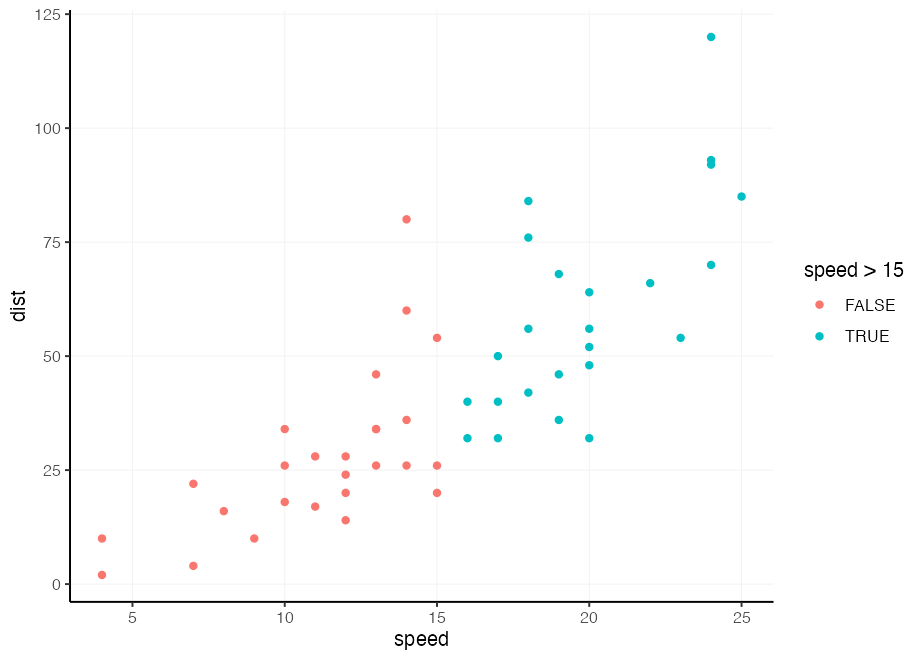
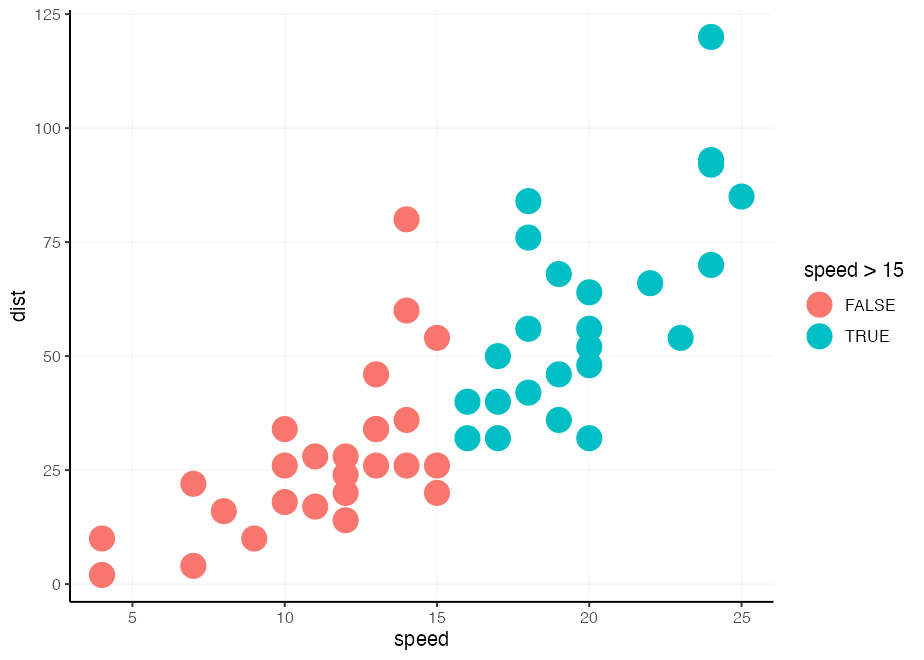
greys

diff --git a/README.md b/README.md
@@ -92,12 +92,12 @@ especially nifty if you need to recycle aesthetics every once in a
 while.
 
 ``` r
-my_mapping <- aes(x = speed, y = dist)
+my_xy_mapping <- aes(x = speed, y = dist)
 
 ggplot(data = cars) + 
   aes(color = speed > 15, 
-      !!!my_mapping) + 
-  geom_point()
+      !!!my_xy_mapping) + 
+  geom_point(size = 6)
 ```
 
 <img src="man/figures/README-splice_aes-1.png" width="80%" style="display: block; margin: auto;" />
@@ -125,14 +125,14 @@ p;p
 
 ``` r
 
-# or reusable
+# or reusably
 aes(fill = after_scale(alpha(colour, 0.3))) ->
-  fill_after_color0.3
+  aes_fill_transparent_after_color
 
 ggplot(mpg) +
   aes(x = displ, y = hwy, 
       colour = factor(cyl), 
-      !!!fill_after_color0.3) +
+      !!!aes_fill_transparent_after_color) +
   geom_point(shape = 21)
 ```
 
@@ -145,7 +145,7 @@ ggplot(mpg) +
 ggplot(mpg) +
   aes(x = displ, y = hwy) +
   geom_point(shape = 21) + 
-  fill_after_color0.3 + 
+  aes_fill_transparent_after_color + 
   aes(colour = factor(cyl))
 ```
 
@@ -170,15 +170,15 @@ of conditional formatting for this.
 
 ``` r
 contrast <- function(colour) {
-  out   <- rep("black", length(colour))
+  out   <- rep("grey20", length(colour))
   light <- farver::get_channel(colour, "l", 
                                space = "hcl")
-  out[light < 50] <- "white"
+  out[light < 50] <- "grey80"
   out
 }
 
 aes(colour = after_scale(contrast(fill))) ->
-  autocontrast
+  aes_colour_autocontrast_after_fill
 
 library(tidyverse)
 #> ── Attaching core tidyverse packages ─────────────────── tidyverse 2.0.0.9000 ──
@@ -201,7 +201,7 @@ cor(mtcars) |>
   aes(fill = value) + 
   geom_text(aes(label = round(value, 2)), size = 3) +
   coord_equal() +
-  autocontrast + 
+  aes_colour_autocontrast_after_fill + 
   scale_fill_viridis_c(direction =  1) +
   scale_fill_viridis_c(direction = -1)
 #> Scale for fill is already present.
@@ -235,7 +235,7 @@ ggplot() +
   geom_boxplot() + 
   aes(xmin = after_scale(x)) +
   # make it pretty
-  fill_after_color0.3 +
+  aes_fill_transparent_after_color +
   labs(y = "Engine Displacement [L]", x = "Type of car") +
   guides(colour = "none", fill = "none") 
 ```
@@ -599,7 +599,7 @@ barplot_fun <- function(data, ...) {
     theme(panel.grid.major.x = element_blank())
 }
 
-barplot_fun(mpg, class, colour = factor(cyl), !!!fill_after_color0.3)
+barplot_fun(mpg, class, colour = factor(cyl), !!!aes_fill_transparent_after_color)
 ```
 
 <img src="man/figures/README-barplot_fun_ellipsis-1.png" width="80%" style="display: block; margin: auto;" />
@@ -620,7 +620,8 @@ barplot_skelly <- ggplot() +
   theme(panel.grid.major.x = element_blank())
 
 my_plot <- barplot_skelly %+% mpg + 
-  aes(class, colour = factor(cyl), !!!fill_after_color0.3) 
+  aes(class, colour = factor(cyl),
+      !!!aes_fill_transparent_after_color) 
 my_plot
 ```
 
@@ -633,7 +634,8 @@ again and again.
 ``` r
 my_plot %+% 
   mtcars + 
-  aes(factor(carb), colour = factor(cyl), !!!fill_after_color0.3)
+  aes(factor(carb), colour = factor(cyl),
+      !!!aes_fill_transparent_after_color)
 ```
 
 <img src="man/figures/README-barplot_skelly_replace-1.png" width="80%" style="display: block; margin: auto;" />
@@ -649,7 +651,8 @@ together with the main plot call.
 
 ``` r
 labelled_bars <- list(
-  geom_bar(fill_after_color0.3, width = 0.618),
+  geom_bar(aes_fill_transparent_after_color, 
+           width = 0.618),
   geom_text(
     stat = "count",
     aes(y     = after_stat(count), 
